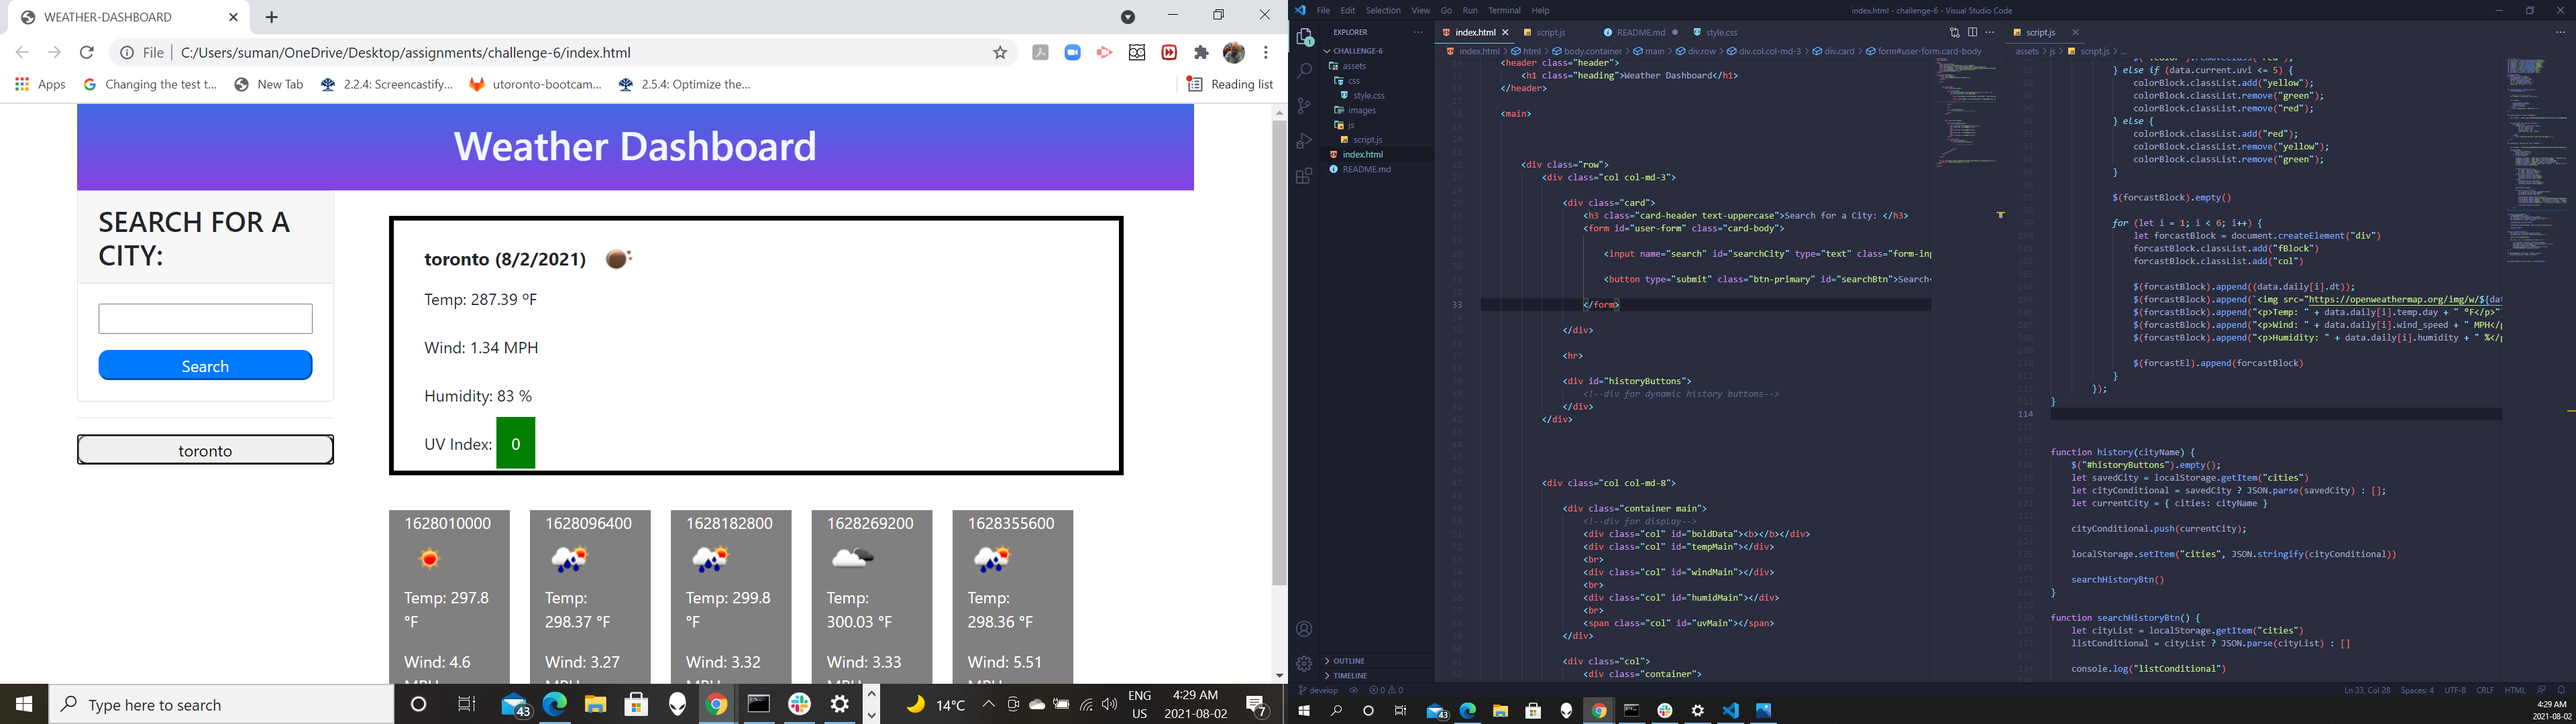
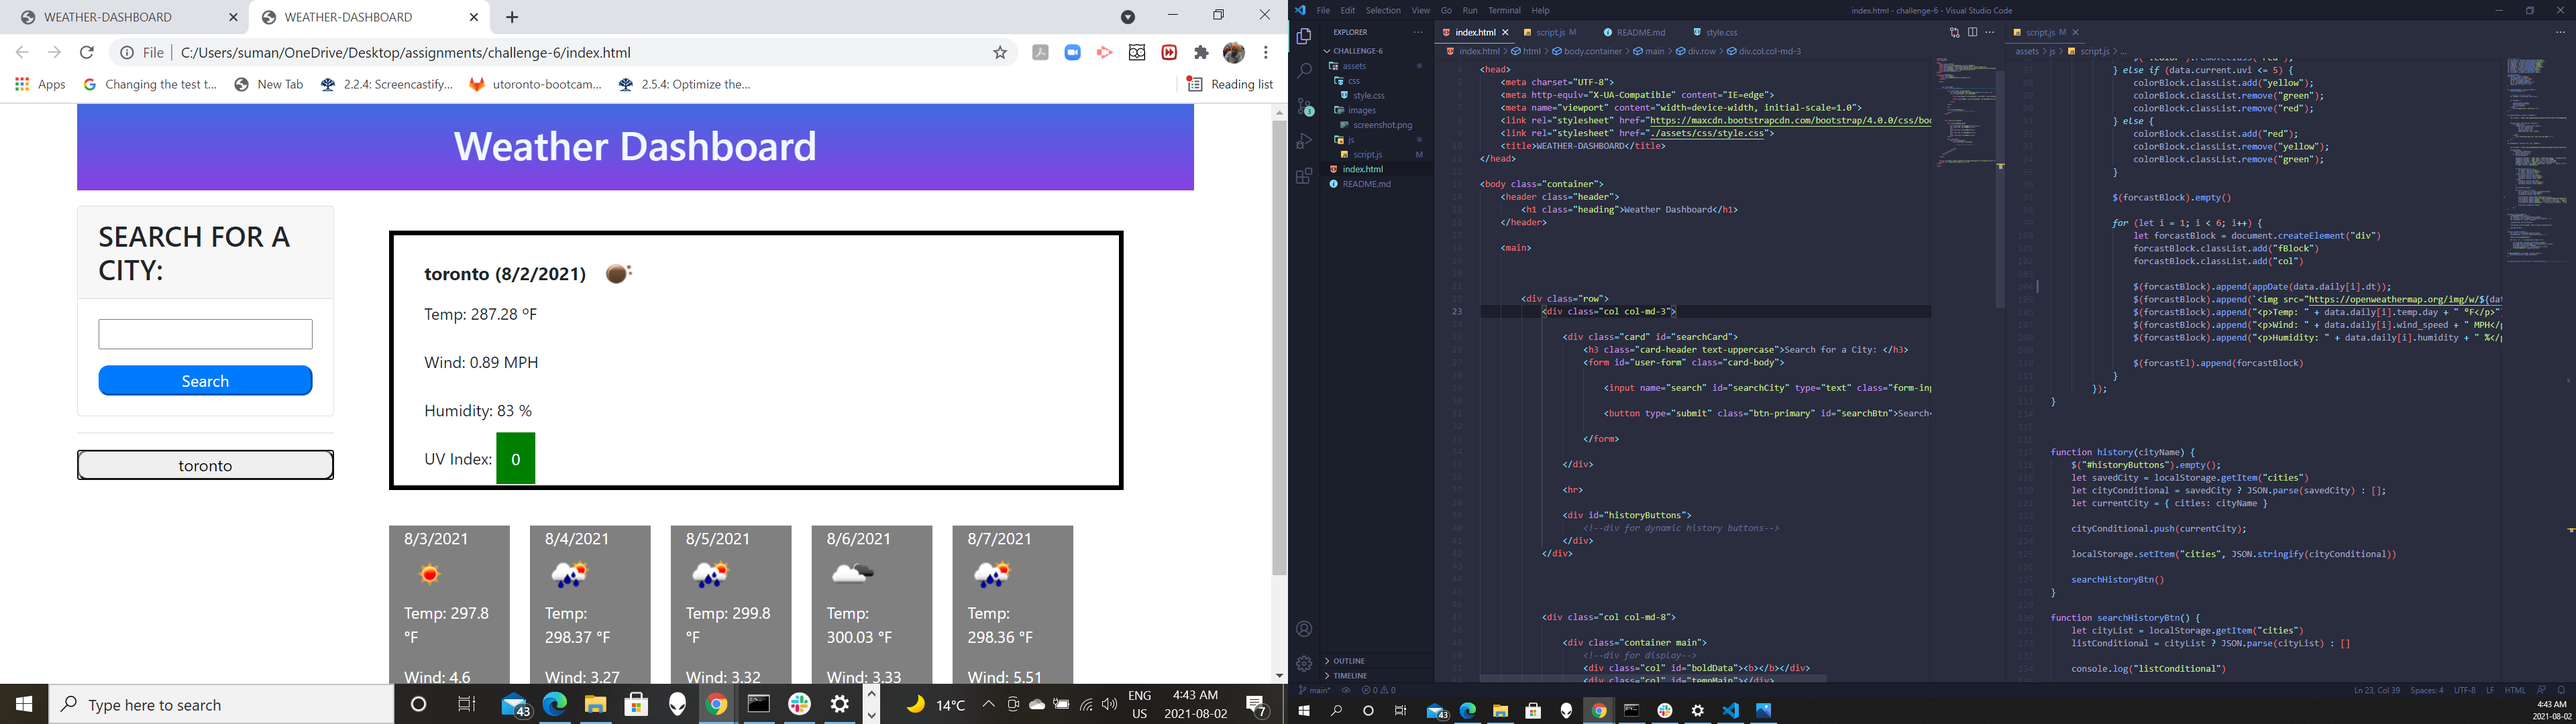
fixed date issue

diff --git a/assets/js/script.js b/assets/js/script.js
@@ -101,7 +101,7 @@ var getMainData = function (lat, log, cityName) {
                 forcastBlock.classList.add("fBlock")
                 forcastBlock.classList.add("col")
 
-                $(forcastBlock).append((data.daily[i].dt));
+                $(forcastBlock).append(appDate(data.daily[i].dt));
                 $(forcastBlock).append(`<img src="https://openweathermap.org/img/w/${data.daily[i].weather[0].icon}.png"/>`);
                 $(forcastBlock).append("<p>Temp: " + data.daily[i].temp.day + " °F</p>");
                 $(forcastBlock).append("<p>Wind: " + data.daily[i].wind_speed + " MPH</p>");
